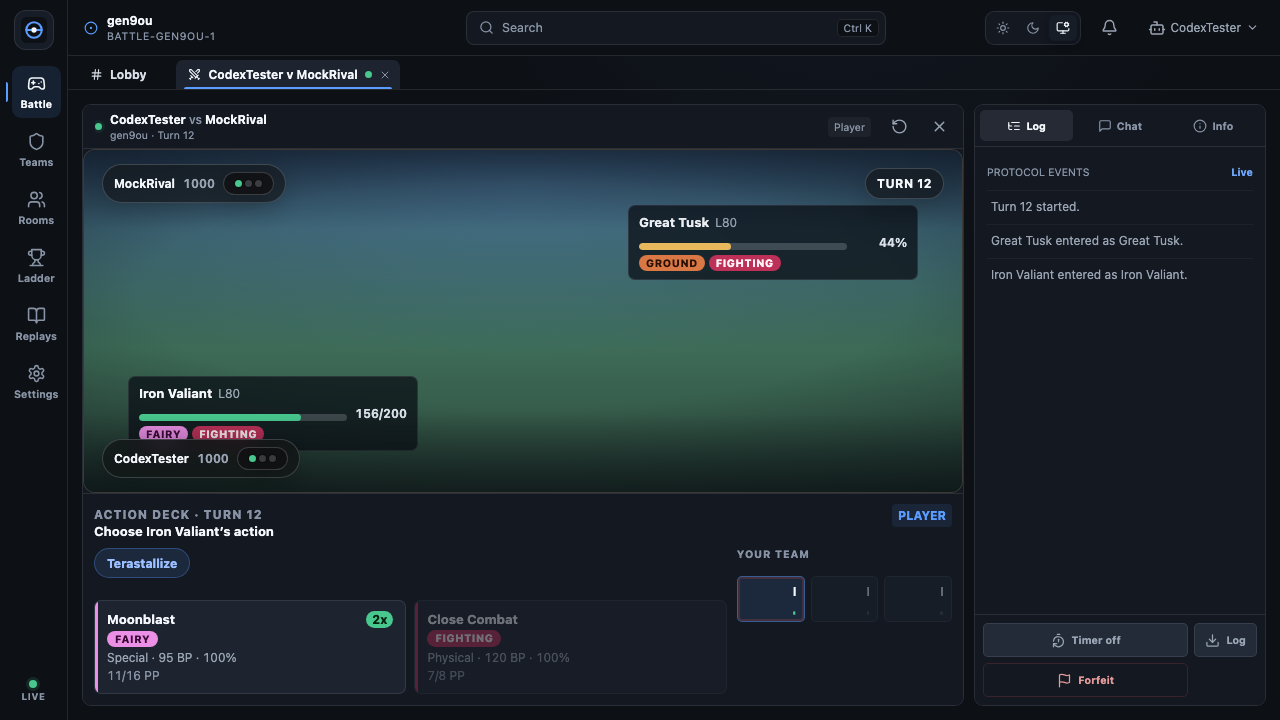
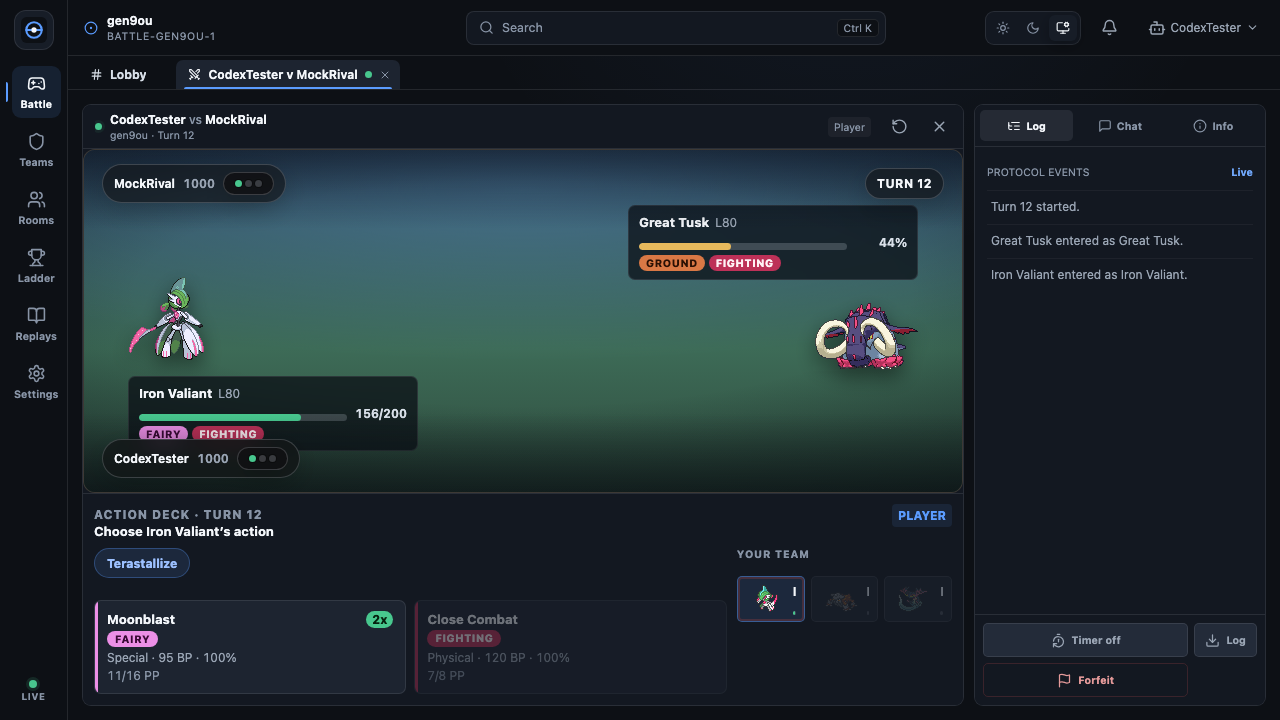
README screenshot waits for the pixels it advertises
The battle capture raced the network: sprites and the bench icon sheet
were still downloading, so the README showed an empty field and broken
icons — the feature itself renders fine (verified on a live battle).
The capture and the battle visual baseline now wait for every image to
decode (plus network idle for the CSS icon sheet) before shooting.

diff --git a/e2e/visual.spec.ts b/e2e/visual.spec.ts
@@ -28,6 +28,10 @@ test('battle cockpit visual baseline', async ({ page }) => {
   await page.getByRole('button', { name: 'Find battle' }).click();
   await expect(page).toHaveURL(/\/battle\/battle-gen9ou-1/);
   await expect(page.getByRole('button', { name: /Moonblast/ })).toBeVisible();
+  // Sprite images stream from the network; the shot must not race them.
+  await page.waitForFunction(() =>
+    [...document.images].every(image => image.complete && image.naturalWidth > 0)
+  );
   await expect(page).toHaveScreenshot('battle-cockpit.png', {
     animations: 'disabled',
     maxDiffPixelRatio: 0.04,
